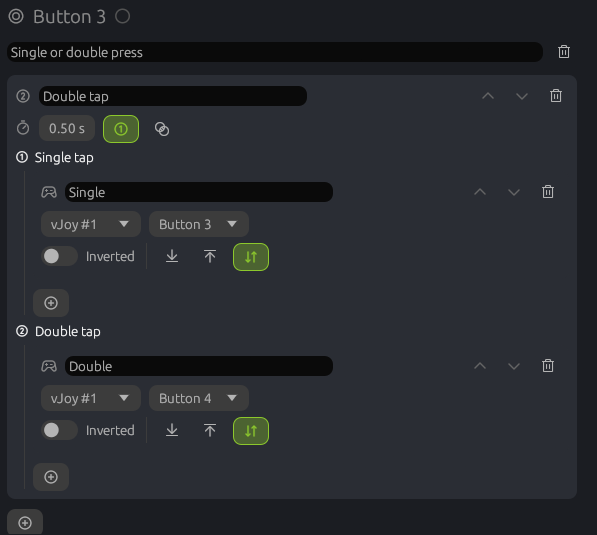
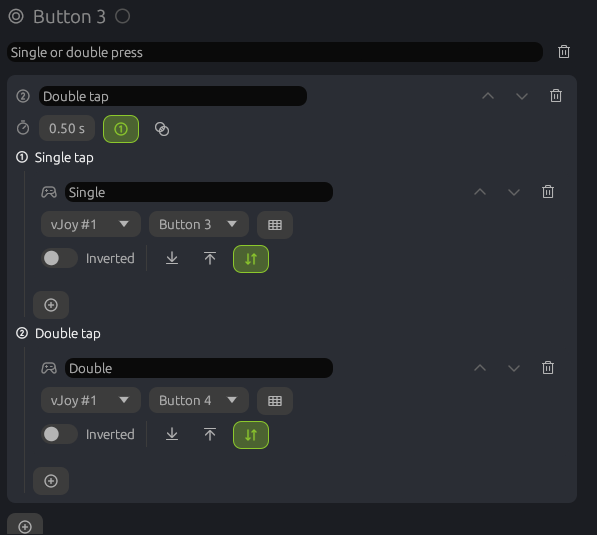
docs(site): 0.9.0: map to gamepad, virtual gamepads, Xbox controllers, quick vJoy output picking
Learning gets the Map to gamepad action (Linux) and Map to vJoy its output
grid and starting output; Emulation the virtual gamepads on Linux; the landing
page 24 actions and Windows and Linux rows for virtual gamepads and Xbox
controllers through XInput. Every screenshot with a Map to vJoy card is taken
again with the grid button; the Tempo overlay follows its 2 px taller card.

diff --git a/site/learn.html b/site/learn.html
@@ -4,12 +4,12 @@
   <meta charset="utf-8">
   <meta name="viewport" content="width=device-width, initial-scale=1">
   <title>Joystick mapping actions: curves, tempo, macros and more | Joystick Gobloon</title>
-  <meta name="description" content="Every action of the Joystick Gobloon joystick mapper explained with its editor: map to vJoy, keyboard and mouse, response curves, split and merge axis, tempo, double tap, macros, conditions, modes and modifiers.">
+  <meta name="description" content="Every action of the Joystick Gobloon joystick mapper explained with its editor: map to vJoy, gamepad, keyboard and mouse, response curves, split and merge axis, tempo, double tap, macros, conditions, modes and modifiers.">
   <link rel="canonical" href="https://h0userus.github.io/gobloon/learn.html">
   <meta property="og:type" content="article">
   <meta property="og:site_name" content="Joystick Gobloon">
   <meta property="og:title" content="Joystick mapping actions: curves, tempo, macros and more | Joystick Gobloon">
-  <meta property="og:description" content="Every action of the Joystick Gobloon joystick mapper explained with its editor: map to vJoy, keyboard and mouse, response curves, split and merge axis, tempo, double tap, macros, conditions, modes and modifiers.">
+  <meta property="og:description" content="Every action of the Joystick Gobloon joystick mapper explained with its editor: map to vJoy, gamepad, keyboard and mouse, response curves, split and merge axis, tempo, double tap, macros, conditions, modes and modifiers.">
   <meta property="og:url" content="https://h0userus.github.io/gobloon/learn.html">
   <meta property="og:locale" content="en_US">
   <meta property="og:image" content="https://h0userus.github.io/gobloon/img/og.jpg">
@@ -18,7 +18,7 @@
   <meta property="og:image:alt" content="Joystick Gobloon, a free joystick mapper for Windows and Linux, next to its virtual joystick editor">
   <meta name="twitter:card" content="summary_large_image">
   <meta name="twitter:title" content="Joystick mapping actions: curves, tempo, macros and more | Joystick Gobloon">
-  <meta name="twitter:description" content="Every action of the Joystick Gobloon joystick mapper explained with its editor: map to vJoy, keyboard and mouse, response curves, split and merge axis, tempo, double tap, macros, conditions, modes and modifiers.">
+  <meta name="twitter:description" content="Every action of the Joystick Gobloon joystick mapper explained with its editor: map to vJoy, gamepad, keyboard and mouse, response curves, split and merge axis, tempo, double tap, macros, conditions, modes and modifiers.">
   <meta name="twitter:image" content="https://h0userus.github.io/gobloon/img/og.jpg">
   <meta name="author" content="Denis Ibragimov">
   <meta name="theme-color" content="#131209">
@@ -37,7 +37,7 @@
     {
       "@type": "TechArticle",
       "headline": "Every Joystick Gobloon action, explained with its editor",
-      "description": "Every action of the Joystick Gobloon joystick mapper explained with its editor: map to vJoy, keyboard and mouse, response curves, split and merge axis, tempo, double tap, macros, conditions, modes and modifiers.",
+      "description": "Every action of the Joystick Gobloon joystick mapper explained with its editor: map to vJoy, gamepad, keyboard and mouse, response curves, split and merge axis, tempo, double tap, macros, conditions, modes and modifiers.",
       "url": "https://h0userus.github.io/gobloon/learn.html",
       "inLanguage": "en",
       "image": "https://h0userus.github.io/gobloon/img/og.jpg",
@@ -116,7 +116,7 @@
       <div class="wrap">
         <p class="kicker">Learning</p>
         <h1 class="gradient">Every action,<br>explained with its editor</h1>
-        <p class="sub">What an input does is a list of actions. Here is how they run, how modes and modifiers change them, and what each of the 23 actions does.</p>
+        <p class="sub">What an input does is a list of actions. Here is how they run, how modes and modifiers change them, and what each of the 24 actions does.</p>
       </div>
     </header>
 
@@ -132,6 +132,7 @@
           </ul></li>
           <li><a class="toc-group" href="#output">Output</a><ul>
             <li><a href="#map-to-vjoy">Map to vJoy</a></li>
+            <li><a href="#map-to-gamepad">Map to gamepad</a></li>
             <li><a href="#map-to-keyboard">Map to keyboard</a></li>
             <li><a href="#map-to-mouse">Map to mouse</a></li>
             <li><a href="#map-to-logical-device">Map to logical device</a></li>
@@ -203,7 +204,13 @@
           <article class="learn-action" id="map-to-vjoy">
             <h3><i class="ph ph-joystick" aria-hidden="true"></i>Map to vJoy</h3>
             <p>Sends the value to a virtual joystick: an axis to an axis, a button to a button, a hat to a hat. Pick the vJoy device and its input; a button can be inverted. An axis can also be <strong>relative</strong>: then the input sets the speed at which the vJoy axis moves, and the axis stays where it is when you let go.</p>
+            <p>A new Map to vJoy starts on the vJoy device you picked last and its first output that nothing else uses yet. The grid button next to the lists shows every output of each vJoy device at once: the ones other inputs already use are dimmed, the current one is highlighted, and a click picks one.</p>
             <figure class="shot"><img src="img/actions/map-to-vjoy.png" loading="lazy" alt="Map to vJoy: vJoy device 1, button 1, not inverted, runs on press and release"></figure>
+          </article>
+          <article class="learn-action" id="map-to-gamepad">
+            <h3><i class="ph ph-game-controller" aria-hidden="true"></i>Map to gamepad</h3>
+            <p>Linux only for now. Sends the value to a virtual <strong>Xbox-style gamepad</strong>: games, Steam and Proton see an Xbox 360 controller, so a game that only understands gamepads can be played with a stick. Add the gamepad on the <span class="term">Virtual joysticks</span> page first (up to four), then pick it and a control that suits the input: a button presses a gamepad button, a d-pad direction or a trigger; an axis moves a stick axis or a trigger (the whole axis range becomes the trigger's travel); a hat drives the d-pad. Buttons and axes can be inverted.</p>
+            <figure class="shot"><img src="img/actions/map-to-gamepad.png" loading="lazy" alt="Map to gamepad: gamepad 1, button A, not inverted, runs on press and release"></figure>
           </article>
           <article class="learn-action" id="map-to-keyboard">
             <h3><i class="ph ph-keyboard" aria-hidden="true"></i>Map to keyboard</h3>

diff --git a/site/index.html b/site/index.html
@@ -71,7 +71,9 @@
         "Hide physical joysticks from games (HidHide on Windows)",
         "Create and configure vJoy virtual joysticks",
         "Virtual joysticks on Linux through uinput",
-        "Map buttons, axes and hats with 23 actions",
+        "Virtual Xbox-style gamepads on Linux",
+        "Xbox controllers through XInput on Windows",
+        "Map buttons, axes and hats with 24 actions",
         "Modes, modifiers and input layers",
         "Response curves, tempo, double tap, macros, conditions",
         "Imports Joystick Gremlin profiles",
@@ -257,7 +259,7 @@
         </figure>
 
         <ul class="proof" aria-label="At a glance">
-          <li data-k="up"><strong data-count="23">23</strong><span>actions for buttons, axes and hats</span></li>
+          <li data-k="up"><strong data-count="24">24</strong><span>actions for buttons, axes and hats</span></li>
           <li data-k="up"><strong data-count="16">16</strong><span>vJoy devices with 128 buttons each</span></li>
           <li data-k="up"><strong data-count="7">7</strong><span>languages built in</span></li>
           <li data-k="up"><strong data-count="2">2</strong><span>systems: Windows and Linux</span></li>
@@ -382,11 +384,12 @@
       <div class="wrap">
         <div class="section-head reveal">
           <p class="kicker">Actions</p>
-          <h2 id="actions-title">23 actions for every input</h2>
+          <h2 id="actions-title">24 actions for every input</h2>
           <p>Stack them on any input. They run top to bottom and pass the value on, so a response curve can shape an axis before it reaches vJoy.</p>
         </div>
         <ul class="actions anim" data-story="actions">
           <li data-k="up"><i class="ph ph-joystick" aria-hidden="true"></i>Map to vJoy</li>
+          <li data-k="up"><i class="ph ph-game-controller" aria-hidden="true"></i>Map to gamepad</li>
           <li data-k="up"><i class="ph ph-keyboard" aria-hidden="true"></i>Map to keyboard</li>
           <li data-k="up"><i class="ph ph-mouse" aria-hidden="true"></i>Map to mouse</li>
           <li data-k="up"><i class="ph ph-cube" aria-hidden="true"></i>Map to logical device</li>
@@ -458,8 +461,9 @@
             <tbody>
               <tr><th scope="row">Package</th><td>Installer with drivers, or portable zip. Updates itself.</td><td>AppImage. Updates itself.</td></tr>
               <tr><th scope="row">Virtual joysticks</th><td>vJoy: up to 16 devices, 8 axes, 128 buttons, 4 hats each</td><td>uinput, no driver: devices appear when a profile starts; 8 axes, 95 buttons, 4 hats each</td></tr>
+              <tr><th scope="row">Virtual gamepads</th><td>Not yet (needs a driver)</td><td>Xbox-style gamepads, up to 4: games, Steam and Proton see an Xbox 360 controller</td></tr>
               <tr><th scope="row">Device hiding</th><td>HidHide: hidden for every program, even when the app is closed</td><td>Exclusive reading while Joystick Gobloon runs; raw HID readers are not covered</td></tr>
-              <tr><th scope="row">Physical controllers</th><td>DirectInput: all buttons</td><td>evdev: up to 80 buttons per device</td></tr>
+              <tr><th scope="row">Physical controllers</th><td>DirectInput: all buttons. Xbox controllers through XInput: both triggers apart, also in the background</td><td>evdev: up to 80 buttons per device</td></tr>
               <tr><th scope="row">Keyboard keys as inputs</th><td>Yes</td><td>No, key and mouse output works</td></tr>
               <tr><th scope="row">Text to speech</th><td>Windows voices</td><td>speech dispatcher</td></tr>
             </tbody>

diff --git a/site/emulation.html b/site/emulation.html
@@ -264,6 +264,7 @@
               <li>Add and set up devices on the <span class="term">Virtual joysticks</span> page as on Windows, with up to 8 axes, 95 buttons and 4 hats each. No administrator prompt is needed.</li>
               <li>The devices appear when you activate a profile and disappear when you stop it. Games see them as <span class="term">Joystick Gobloon Joystick 1</span>, <span class="term">Joystick Gobloon Joystick 2</span> and so on.</li>
             </ol>
+            <p>The same page also adds <strong>virtual gamepads</strong>, up to four, named <span class="term">Joystick Gobloon Gamepad 1</span> and so on. They have the layout of an Xbox 360 controller, so games, Steam and Proton take them for one: a game that only understands gamepads can be played with a stick through <a href="learn.html#map-to-gamepad">Map to gamepad</a>. Windows has no virtual gamepads yet.</p>
             <p>The Linux kernel reports at most 80 buttons per physical device. A stick with more buttons can be split into several virtual HID devices in its vendor's tool.</p>
           </article>
 

diff --git a/site/motion.js b/site/motion.js
@@ -110,7 +110,7 @@
     tempo(stage, W, H) {
       const dot = overlay(stage, W, H, 117, 11, 11, 11, "ov-dot");
       const short = overlay(stage, W, H, 23.5, 171, 2, 144, "ov-line");
-      const long = overlay(stage, W, H, 23.5, 345, 2, 112, "ov-line");
+      const long = overlay(stage, W, H, 23.5, 347, 2, 112, "ov-line");
       const timer = overlay(stage, W, H, 39, 115, 56, 26, "ov-fill");
       return {
         period: 6.2,
@@ -247,7 +247,7 @@
       };
     },
 
-    // A soft highlight steps through all 23 actions.
+    // A soft highlight steps through all 24 actions.
     actions(el) {
       const items = [...el.querySelectorAll("li")];
       return {
